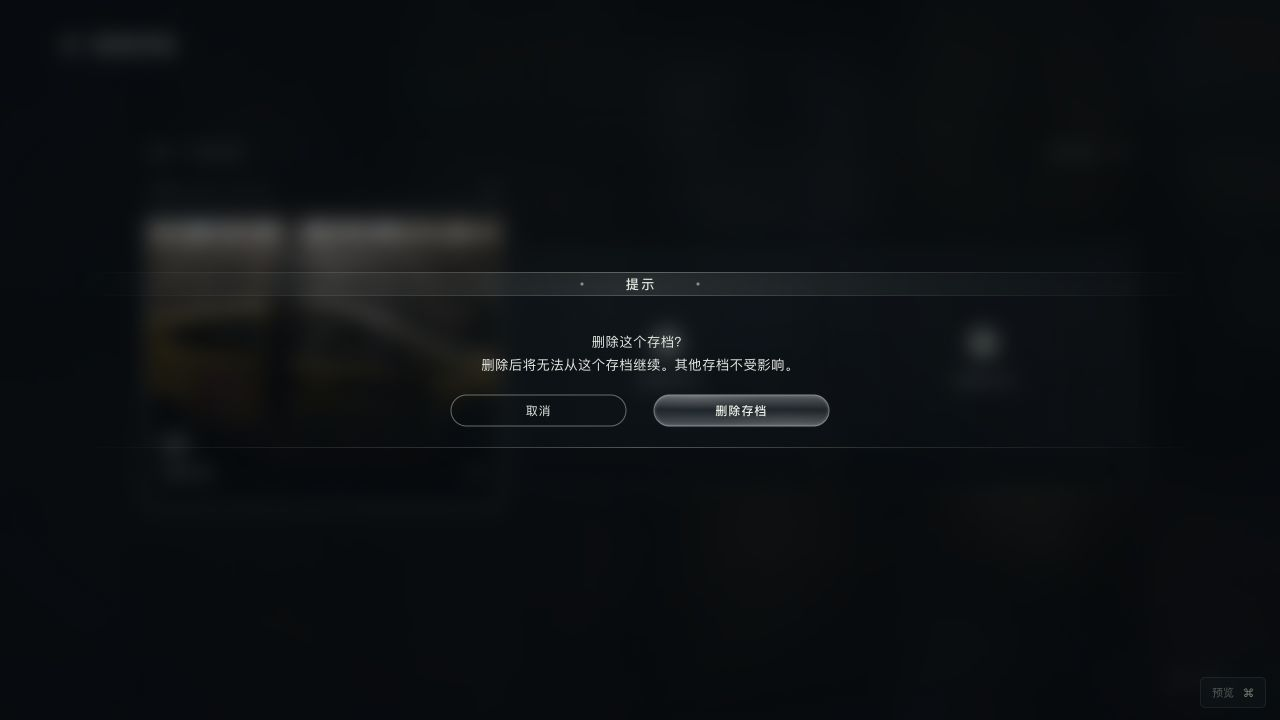
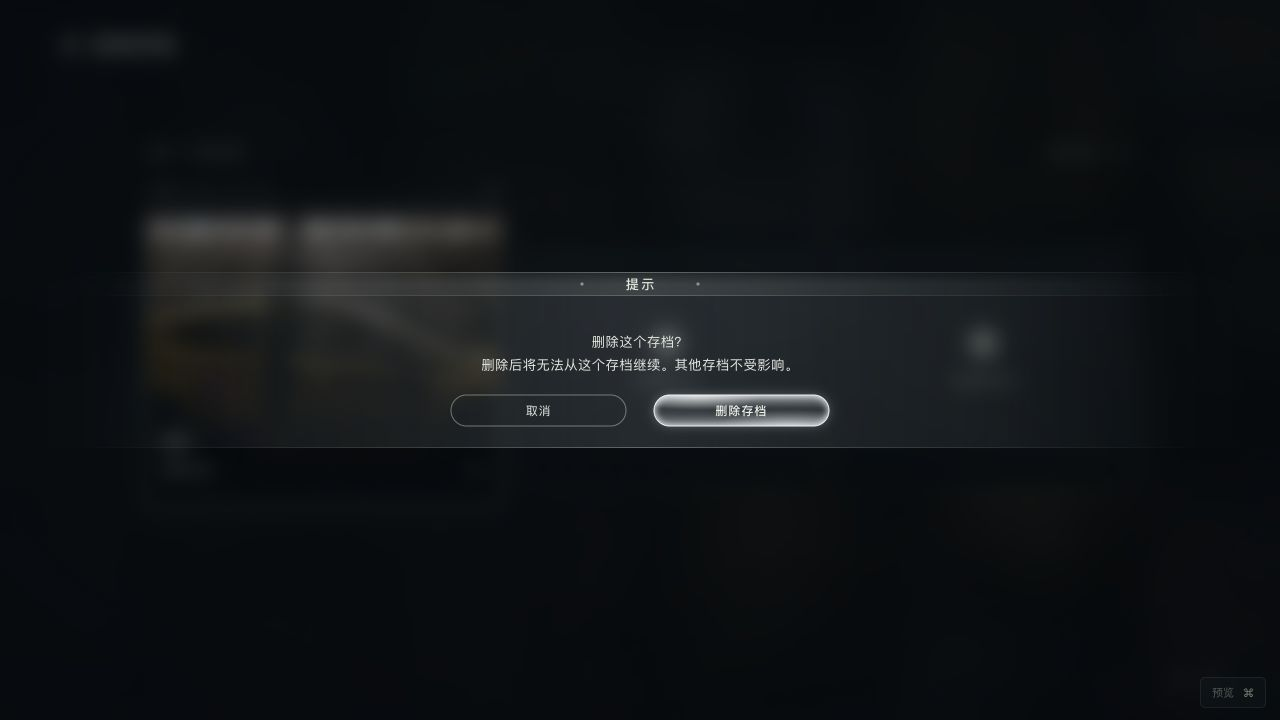
Lift dialog band above the dimmed scene

Changed region(s): [[0.375, 0.3972, 0.6562, 0.6417], [0.4062, 0.55, 0.4375, 0.5806]]

diff --git a/compare.html b/compare.html
@@ -1,4 +1,4 @@
-<!doctype html><html lang="zh-CN"><head><meta charset="utf-8"><meta name="viewport" content="width=device-width,initial-scale=1"><title>Yoroll 游戏 UI · 改版对比与比例方案</title><link rel="icon" href="wall/assets/yoroll-icon.svg"><link rel="stylesheet" href="compare.css?v=crisp-dialog-motion-20261115"></head>
+<!doctype html><html lang="zh-CN"><head><meta charset="utf-8"><meta name="viewport" content="width=device-width,initial-scale=1"><title>Yoroll 游戏 UI · 改版对比与比例方案</title><link rel="icon" href="wall/assets/yoroll-icon.svg"><link rel="stylesheet" href="compare.css?v=lighter-dialog-band-20261115"></head>
 <body><header class="report-header"><a class="brand" href="index.html"><img src="assets/yoroll-logo.png" alt="yoroll"></a><div><span>UI / MOTION STUDY</span><h1>更克制的比例，更连贯的节奏。</h1></div><a id="open-prototype" class="primary-link" href="index.html?page=home" target="_blank">打开交互原型 ↗</a></header>
 <div class="scope"><i></i><span>本地交互方案</span><span>17 个页面 / 状态</span><span>全视口背景</span><span>未修改线上 Unity 游戏</span></div>
 <main class="report-layout"><aside class="page-sidebar"><div class="sidebar-title">逐页对比</div><nav id="page-list"></nav><a href="#proportions">比例调整方案 ↓</a><a href="#handoff">动效与交付说明 ↓</a></aside><article><section class="comparison-section"><div class="page-heading"><div><span id="page-kind" class="eyebrow"></span><h2 id="page-name"></h2></div><div class="page-switch"><button id="prev" aria-label="上一页">←</button><span id="page-count"></span><button id="next" aria-label="下一页">→</button></div></div>
@@ -6,4 +6,4 @@
 <div id="comparison" class="comparison fit-stage" data-mode="wipe"><div class="still-stage"><div class="before-layer"><img id="before-image" alt="修改前截图"><div id="no-before" class="no-before" hidden><span>—</span><h3>没有对应原版截图</h3><p id="before-note"></p></div><span class="picture-label before-label">原版</span></div><div class="after-layer" id="after-layer"><img id="after-image" alt="修改后截图"><span class="picture-label after-label">新版</span></div><div id="wipe-handle" class="wipe-handle"><span>↔</span></div><div class="safe-area" aria-hidden="true"><span>4.5% 水平安全区</span></div></div><div class="motion-stage" hidden><iframe id="motion-frame" title="页面动效预览"></iframe><div class="safe-area" aria-hidden="true"><span>4.5% 水平安全区</span></div></div></div>
 <div id="slider-row" class="slider-row"><span>新版更多</span><input id="wipe-slider" type="range" min="0" max="100" value="50" aria-label="新旧画面分割位置"><span>原版更多</span></div><p id="image-note" class="image-note"></p><div class="change-summary"><div><h3>布局与层级</h3><p id="change"></p></div><div><h3>比例</h3><p id="ratio"></p></div><div><h3>动效与操作</h3><p id="motion"></p><p id="interaction"></p></div></div></section>
 <section id="proportions" class="spec-section"><div class="section-heading"><span class="eyebrow">PROPORTION SYSTEM</span><h2>分别调整层级，建立统一的尺寸体系。</h2><p>以下均以 1920×1080 为设计基准。背景随视口铺满，UI 按当前基准等比缩放；水平安全区为画面宽度的 4.5%。原版数值来自截图估测。</p></div><div class="table-scroll"><table><thead><tr><th>项目</th><th>原版 · 约</th><th>新版</th><th>变化</th><th>调整目的</th></tr></thead><tbody id="proportion-table"></tbody></table></div><div class="principles"><div><span>01</span><h3>让场景成为主体</h3><p>减少全屏灰白覆盖和重高光。菜单、设置、弹窗用暗色虚化与局部明暗建立前后层次。</p></div><div><span>02</span><h3>控制视觉重量</h3><p>正文、辅助数值、主操作分别定标。保留大结果标题，收紧表单标签与导航控件。</p></div><div><span>03</span><h3>统一反馈语言</h3><p>细描边、短位移、柔和减速。悬停、按下、选中、取消与退出都给出明确回应。</p></div></div></section>
-<section id="handoff" class="spec-section"><div class="section-heading"><span class="eyebrow">MOTION SYSTEM</span><h2>一套进出场节奏，覆盖每个页面。</h2><p>页面退出 150ms，新页标题先入场，内容以 42–85ms 错峰，主体在约 0.8–1.1s 内落位。背景与封面 Logo 使用更长的缓慢收尾。</p></div><div class="motion-grid"><div><h3>常规入场</h3><strong>560–760<span> ms</span></strong><p>缓动 cubic-bezier(.16, 1, .3, 1)<br>上下位移约 8–24px，以设计基准计</p></div><div><h3>背景推近</h3><strong>3.6<span> s</span></strong><p>起止速度与加速度均为零<br>封面 100% → 103.5%，结束后停留</p></div><div><h3>确认弹窗</h3><strong>700<span> ms</span></strong><p>背景从中间向两侧展开，文字与按钮错峰浮现<br>文字先淡出，再向中央收拢，约 360ms</p></div></div><div class="check-row"><span>✓ 页面切换</span><span>✓ 悬停 / 按下</span><span>✓ 键盘操作</span><span>✓ 弹窗焦点</span><span>✓ 减少动态效果适配</span><span>✓ 所有页面可重播</span><span>✓ Hover / 点击 / 切页音效</span></div><div class="file-links"><a href="design-tokens.json" download>下载尺寸与颜色参数</a><a href="motion-spec.json" download>下载逐页动效参数</a><a href="sound-spec.json" download>下载界面音效参数</a><a href="implementation-notes.txt" download>下载落地说明</a><a href="https://preview.game.yoroll.ai/?config=Race&test=1&lang=zh" target="_blank">查看原始预览 ↗</a></div><details open><summary>范围、素材与验证说明</summary><ul id="scope-notes"></ul><p>已检查主菜单、章节与剧情树导航；设置数值与语言下拉；新建存档和确认 / 取消；限时选择暂停计时；选择 → QTE → 结果链路；完成页可进入下一章或返回章节选择，末章进入游戏结束；QTE 超时进入失败并可重试。所有页面 / 状态均已保存本地截图。</p></details></section><footer class="report-footer">YOROLL · UI & MOTION EXPLORATION <span>2026.11.11 · 本地方案</span></footer></article></main><script src="report-data.js?v=crisp-dialog-motion-20261115"></script><script src="compare.js?v=crisp-dialog-motion-20261115"></script></body></html>
+<section id="handoff" class="spec-section"><div class="section-heading"><span class="eyebrow">MOTION SYSTEM</span><h2>一套进出场节奏，覆盖每个页面。</h2><p>页面退出 150ms，新页标题先入场，内容以 42–85ms 错峰，主体在约 0.8–1.1s 内落位。背景与封面 Logo 使用更长的缓慢收尾。</p></div><div class="motion-grid"><div><h3>常规入场</h3><strong>560–760<span> ms</span></strong><p>缓动 cubic-bezier(.16, 1, .3, 1)<br>上下位移约 8–24px，以设计基准计</p></div><div><h3>背景推近</h3><strong>3.6<span> s</span></strong><p>起止速度与加速度均为零<br>封面 100% → 103.5%，结束后停留</p></div><div><h3>确认弹窗</h3><strong>700<span> ms</span></strong><p>背景从中间向两侧展开，文字与按钮错峰浮现<br>文字先淡出，再向中央收拢，约 360ms</p></div></div><div class="check-row"><span>✓ 页面切换</span><span>✓ 悬停 / 按下</span><span>✓ 键盘操作</span><span>✓ 弹窗焦点</span><span>✓ 减少动态效果适配</span><span>✓ 所有页面可重播</span><span>✓ Hover / 点击 / 切页音效</span></div><div class="file-links"><a href="design-tokens.json" download>下载尺寸与颜色参数</a><a href="motion-spec.json" download>下载逐页动效参数</a><a href="sound-spec.json" download>下载界面音效参数</a><a href="implementation-notes.txt" download>下载落地说明</a><a href="https://preview.game.yoroll.ai/?config=Race&test=1&lang=zh" target="_blank">查看原始预览 ↗</a></div><details open><summary>范围、素材与验证说明</summary><ul id="scope-notes"></ul><p>已检查主菜单、章节与剧情树导航；设置数值与语言下拉；新建存档和确认 / 取消；限时选择暂停计时；选择 → QTE → 结果链路；完成页可进入下一章或返回章节选择，末章进入游戏结束；QTE 超时进入失败并可重试。所有页面 / 状态均已保存本地截图。</p></details></section><footer class="report-footer">YOROLL · UI & MOTION EXPLORATION <span>2026.11.11 · 本地方案</span></footer></article></main><script src="report-data.js?v=lighter-dialog-band-20261115"></script><script src="compare.js?v=lighter-dialog-band-20261115"></script></body></html>

diff --git a/report-data.js b/report-data.js
@@ -100,7 +100,7 @@ window.YOROLL_REPORT = {
       "footerRevision": "saves-footer-clean-20261113",
       "selectedParticlesRevision": "saves-dust-depth-20261113",
       "dialogMotion": "六类确认共用开合：入场背景 700ms 从中间展开、文字按钮错峰浮现；关闭内容 110ms 淡出，背景提前到 80ms 开始收拢，整体约 360ms 完成，遮罩在 160ms 开始淡出。",
-      "dialogAppearance": "确认出现时整页背景统一压暗并柔和虚化 10px，减少海报与页面文字干扰。横幅仅保留约 12% 的轻底色和渐隐细线，横幅及按钮取消局部背景模糊，前景文字保持清晰。"
+      "dialogAppearance": "整页背景压暗并虚化，弹窗横幅改为更浅的半透明冷灰色，中央约 18% 底色，两侧自然渐隐到透明。面板、文字与按钮始终清晰，层次更容易辨认。"
     },
     {
       "id": "settings",
@@ -119,11 +119,11 @@ window.YOROLL_REPORT = {
       "name": "退出登录",
       "before": "08-logout.jpg",
       "kind": "原版实拍",
-      "change": "确认出现时整页背景统一压暗并柔和虚化 10px，减少海报与页面文字干扰。横幅仅保留约 12% 的轻底色和渐隐细线，横幅及按钮取消局部背景模糊，前景文字保持清晰。 标题、正文和按钮的开合动效也取消虚化，前景全程清晰。",
+      "change": "整页背景压暗并虚化，弹窗横幅改为更浅的半透明冷灰色，中央约 18% 底色，两侧自然渐隐到透明。面板、文字与按钮始终清晰，层次更容易辨认。",
       "ratio": "1920×1080 基准：横幅约 264px 高，占画面高度约 24%；标题 20px、正文 20px。按钮保留 264×48px、18px 字号，按钮间距收至 40px。",
       "motion": "六类确认共用开合：入场背景 700ms 从中间展开、文字按钮错峰浮现；关闭内容 110ms 淡出，背景提前到 80ms 开始收拢，整体约 360ms 完成，遮罩在 160ms 开始淡出。",
       "interaction": "取消、Esc 与焦点回到原控件；确认只切换本地演示账号状态。",
-      "appearanceRevision": "crisp-dialog-motion-20261115",
+      "appearanceRevision": "lighter-dialog-band-20261115",
       "motionRevision": "crisp-dialog-motion-20261115"
     },
     {
@@ -224,11 +224,11 @@ window.YOROLL_REPORT = {
       "name": "退出确认",
       "before": "09-exit.jpg",
       "kind": "原版退出后黑屏",
-      "change": "确认出现时整页背景统一压暗并柔和虚化 10px，减少海报与页面文字干扰。横幅仅保留约 12% 的轻底色和渐隐细线，横幅及按钮取消局部背景模糊，前景文字保持清晰。 标题、正文和按钮的开合动效也取消虚化，前景全程清晰。",
+      "change": "整页背景压暗并虚化，弹窗横幅改为更浅的半透明冷灰色，中央约 18% 底色，两侧自然渐隐到透明。面板、文字与按钮始终清晰，层次更容易辨认。",
       "ratio": "1920×1080 基准：横幅约 264px 高，占画面高度约 24%；标题 20px、正文 20px。按钮保留 264×48px、18px 字号，按钮间距收至 40px。",
       "motion": "六类确认共用开合：入场背景 700ms 从中间展开、文字按钮错峰浮现；关闭内容 110ms 淡出，背景提前到 80ms 开始收拢，整体约 360ms 完成，遮罩在 160ms 开始淡出。",
       "interaction": "取消、Esc、退出均可演示。",
-      "appearanceRevision": "crisp-dialog-motion-20261115",
+      "appearanceRevision": "lighter-dialog-band-20261115",
       "motionRevision": "crisp-dialog-motion-20261115"
     }
   ],
@@ -348,6 +348,7 @@ window.YOROLL_REPORT = {
     "确认弹窗全面统一与加快关闭（2026-11-15）：退出故事、退出登录、登录提示、新建存档、切换存档、删除存档均使用同一横幅、提示标题、上下细线与玻璃确认按钮，删除提示和原操作文案保留。统一关闭配置为内容 110ms、背景提前 80ms 启动并在 280ms 内收拢、遮罩于 160ms 起用 200ms 淡出，常规总时长从 600ms 缩为 360ms；无可见文字时直接收拢，最快 280ms。所有类型共用同一个关闭配置及取消、Esc、确认后执行机制，减少不同弹窗间的等待差异。静态尺寸、入场、焦点恢复和原音效保持。",
     "左侧菜单选中反馈（2026-11-15）：默认与封面首页共用分层反馈，细线自中心由 18% 到 100% 在 420ms 内舒展，透明度 240ms 显现并在 280ms 内去除轻微虚化；圆点缩放由 .55 到 1，于 15ms 起渐亮，文字与文字柔光分别延迟 25/45ms。移开时细线仅用 160ms 淡出，连续点选／悬停可自然反向接续，键盘焦点同款。菜单 25px 字号、51px 行高、17px 间距、168px 最小宽度和原 5px 选中位移均保持。首项高亮选择器改为真实首行，修正包装容器让所有按钮都误成首项的问题；主入口保留原亮度，其他未选中项恢复低亮，当前项提亮。没有新增箭头或底框，游戏逻辑、背景和所有音效保持。",
     "弹窗背景聚焦（2026-11-15）：所有六类确认将虚化移到整页遮罩，背景采用 10px 高斯模糊与更集中的暗色渐层；场景仍保留颜色和轮廓。横幅中央底色透明度由约 20% 降至约 12%，横幅和确认／取消按钮的局部 backdrop-filter 均取消；前景文字不受背景虚化影响。沿用原 220ms 遮罩入场、700ms 横幅展开和 360ms 收拢关闭，整页虚化随遮罩淡入淡出，关闭后恢复页面原有清晰度。264px 高度、字号、间距、上下细线和音效保持。",
-    "弹窗前景保持清晰（2026-11-15）：标题、正文和按钮的入场及收拢虚化均取消，仅保留透明度与轻微落位动效。面板及按钮无局部背景模糊，只有整页背景使用 10px 虚化与压暗。横幅 700ms 展开、775ms 入场完成和 360ms 收拢节奏保持。"
+    "弹窗前景保持清晰（2026-11-15）：标题、正文和按钮的入场及收拢虚化均取消，仅保留透明度与轻微落位动效。面板及按钮无局部背景模糊，只有整页背景使用 10px 虚化与压暗。横幅 700ms 展开、775ms 入场完成和 360ms 收拢节奏保持。",
+    "弹窗浅灰层次（2026-11-15）：仅将横幅中央由深蓝灰约 12% 底色改为浅冷灰约 18%，两侧仍过渡到全透明，使横幅比后方压暗场景更浅、更容易辨认。整页背景 10px 虚化、清晰前景、上下细线、比例和开合节奏保持。"
   ]
 };

diff --git a/compare.js b/compare.js
@@ -15,7 +15,7 @@ function updatePage(){
  $('#page-kind').textContent=page.kind;
  $('#page-count').textContent=`${String(index+1).padStart(2,'0')} / ${pages.length}`;
  $('#change').textContent=page.change;$('#ratio').textContent=page.ratio;$('#motion').textContent=page.motion;$('#interaction').textContent=page.interaction;
- $('#after-image').src=`comparison/after/${page.id}.jpg?v=crisp-dialog-motion-20261115`;
+ $('#after-image').src=`comparison/after/${page.id}.jpg?v=lighter-dialog-band-20261115`;
  $('#after-image').alt=page.name+'修改后';
  $('#before-image').hidden=!page.before;
  $('#no-before').hidden=Boolean(page.before);
@@ -23,12 +23,12 @@ function updatePage(){
  else $('#before-image').removeAttribute('src');
  $('#before-note').textContent=page.beforeNote|| (page.kind==='沿用已定方案'?'沿用本聊天之前已确认的封面构图与素材。':'该状态未在这次线上预览中观察到。新版提供可操作的补充动效示例。');
  $('#image-note').textContent=mode==='motion'?'当前为可操作的实时动效。页面内可以继续导航，点击重播可回到所选页面。':page.before?(page.beforeSource==='user'?'原版来自用户提供的旧版 UI；新版为浏览器实际截图，重点对比尺寸、间距和动效。':'原版来自线上实际截图；新版为本地浏览器截图。底图部分不同，对比重点为 UI 占比、层级与位置。'):'左侧保留来源说明；右侧展示本轮方案。点击「播放动效」体验完整入场。';
- $('#open-prototype').href=`index.html?page=${page.id}&revision=crisp-dialog-motion-20261115`;
+ $('#open-prototype').href=`index.html?page=${page.id}&revision=lighter-dialog-band-20261115`;
  document.querySelectorAll('[data-page]').forEach(button=>{if(button.dataset.page===page.id)button.setAttribute('aria-current','page');else button.removeAttribute('aria-current');});
  history.replaceState(null,'','#'+page.id);
  if(mode==='motion')loadMotion();
 }
-function loadMotion(){const page=pages[index];$('#motion-frame').src=`index.html?page=${page.id}&capture=1&revision=crisp-dialog-motion-20261115&replay=${++replay}`;}
+function loadMotion(){const page=pages[index];$('#motion-frame').src=`index.html?page=${page.id}&capture=1&revision=lighter-dialog-band-20261115&replay=${++replay}`;}
 function setMode(value){
  mode=value;$('#comparison').dataset.mode=mode;
  document.querySelectorAll('button[data-mode]').forEach(button=>button.setAttribute('aria-pressed',String(button.dataset.mode===mode)));

diff --git a/index.html b/index.html
@@ -6,7 +6,7 @@
   <meta name="theme-color" content="#0a0d0e">
   <title>Yoroll · 游戏 UI 动效改版</title>
   <link rel="icon" href="wall/assets/yoroll-icon.svg">
-  <link rel="stylesheet" href="style.css?v=crisp-dialog-motion-20261115">
+  <link rel="stylesheet" href="style.css?v=lighter-dialog-band-20261115">
   <link rel="preload" as="fetch" href="assets/audio/home-opening.wav?v=opening-fade-20261111" crossorigin="anonymous">
 </head>
 <body>
@@ -30,9 +30,9 @@
     <div class="review-sound"><button data-action="restart-music">↻ 重播开场音</button><button data-action="toggle-preview-audio">暂停声音</button></div>
     <p id="music-status" class="sound-status">首次点击后播放开场音</p>
   </aside>
-  <script src="ui-sound.js?v=crisp-dialog-motion-20261115"></script>
+  <script src="ui-sound.js?v=lighter-dialog-band-20261115"></script>
   <script src="home-music.js?v=completion-gold-particles-20261114"></script>
   <script src="story-tree.js?v=tree-locked-hover-20261113"></script>
-  <script src="app.js?v=crisp-dialog-motion-20261115"></script>
+  <script src="app.js?v=lighter-dialog-band-20261115"></script>
 </body>
 </html>

diff --git a/style.css b/style.css
@@ -515,7 +515,7 @@
   position:absolute;
   z-index:-1;
   inset:0;
-  background:linear-gradient(90deg,#14212b00,#14212b0d 25%,#1d303b1f 50%,#14212b0d 75%,#14212b00);
+  background:linear-gradient(90deg,#84949d00,#84949d1f 25%,#a4b1b92e 50%,#84949d1f 75%,#84949d00);
   backdrop-filter:none;
   -webkit-backdrop-filter:none;
   -webkit-mask-image:linear-gradient(90deg,transparent,#000 22%,#000 78%,transparent),linear-gradient(180deg,transparent,#000 7%,#000);
